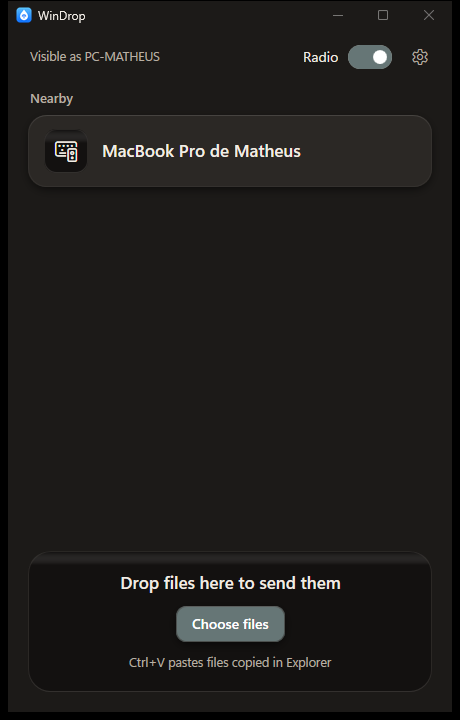
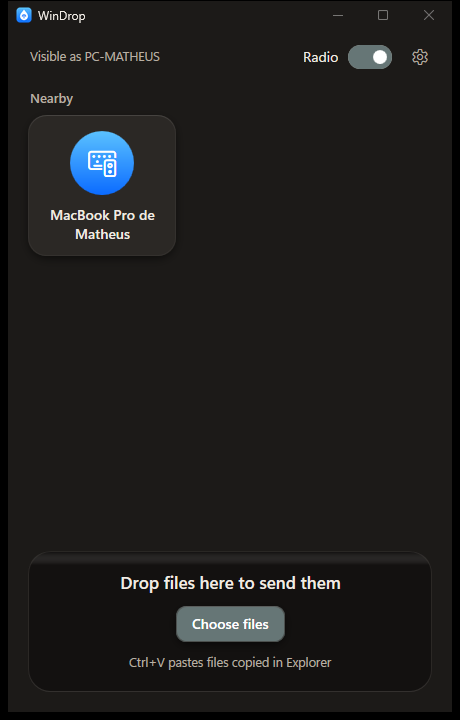
Docs: WinDrop instalado com a lista nova e inicio com o Windows

Changed region(s): [[0.0913, 0.1833, 0.6696, 0.3361]]

diff --git a/docs/WINDROP.md b/docs/WINDROP.md
@@ -33,7 +33,7 @@ Com o rádio desligado, o Wi-Fi do PC funciona normalmente:
 
 ![Rádio desligado](assets/app-radio-off.png)
 
-A lista de aparelhos foi redesenhada: um rosto redondo para cada aparelho, lado a lado, com o nome embaixo. Estas duas imagens são renderizações do próprio aplicativo com aparelhos de exemplo (`winawdl.exe --render`), ainda não instaladas:
+A lista de aparelhos foi redesenhada: um rosto redondo para cada aparelho, lado a lado, com o nome embaixo. Estas duas imagens são renderizações do próprio aplicativo com aparelhos de exemplo (`winawdl.exe --render`); a captura "Rádio ligado" acima é da cópia instalada, com o MacBook real:
 
 ![Aparelhos por perto, tema escuro](assets/ui-nearby-dark.png)
 
@@ -45,7 +45,8 @@ A lista de aparelhos foi redesenhada: um rosto redondo para cada aparelho, lado 
 2. Ligue a chave **Radio** (na janela, ou em **AirDrop** no menu do ícone da bandeja). Não há pergunta do Windows: uma tarefa do sistema troca o driver da placa e sobe o rádio.
 3. Para enviar: botão direito em um arquivo no Explorer, **Enviar via AirDrop**, e clique no aparelho. Também dá para arrastar arquivos para a janela.
 4. Para receber: no iPhone ou no Mac, escolha o PC no AirDrop. O arquivo vai para Downloads e o WinDrop avisa no canto da tela.
-5. Desligue a chave para o Wi-Fi voltar. As redes salvas são trazidas de volta e o WinDrop pede ao Windows para entrar na última usada.
+5. Para o WinDrop já subir com o Windows, sem janela e recebendo, marque **Start with Windows, radio on** no menu do ícone da bandeja. Neste PC isso está ligado.
+6. Desligue a chave para o Wi-Fi voltar. As redes salvas são trazidas de volta e o WinDrop pede ao Windows para entrar na última usada.
 
 No iPhone, o AirDrop precisa estar em "Todos por 10 minutos", com a tela acesa: o PC não é um contato da conta iCloud.
 

diff --git a/docs/MT7902-PORT.md b/docs/MT7902-PORT.md
@@ -148,3 +148,4 @@ O daemon AWDL continua GPL-3.0 (OWL) em processo separado, como no projeto origi
 - **Iniciar com o Windows.** `app/src/Shell/Autostart.cs` e o item "Start with Windows, radio on" no menu da bandeja (chave Run do usuário, `--background`: sem janela, rádio ligado). Compilado, ainda não instalado nem testado: a elevação da reinstalação foi recusada.
 - **Lista de aparelhos redesenhada** (`app/src/Views/MainView.xaml`): rostos redondos lado a lado no lugar das linhas. Conferida por renderização (`--render`), ainda não instalada.
 - **Verificações do aplicativo** (`scripts/build-app.ps1 -Check`): 134 passam e 1 falha, "asked to stop -> both daemons end". Esse teste usa o `ping.exe` como daemon de mentira e procura "Reply from" na saída; neste Windows em português o `ping` escreve "Resposta de". Falha igual sem a mudança de visual.
+- **Instalado e conferido em 2026-11-16, 22:30.** A cópia instalada mostra a lista nova com o MacBook real. Iniciada com `--background`, ficou sem janela, com o rádio em `running` e o Mac consultando o receptor. A chave Run do usuário foi gravada para iniciar assim com o Windows; o início real num logon ainda não foi observado.
